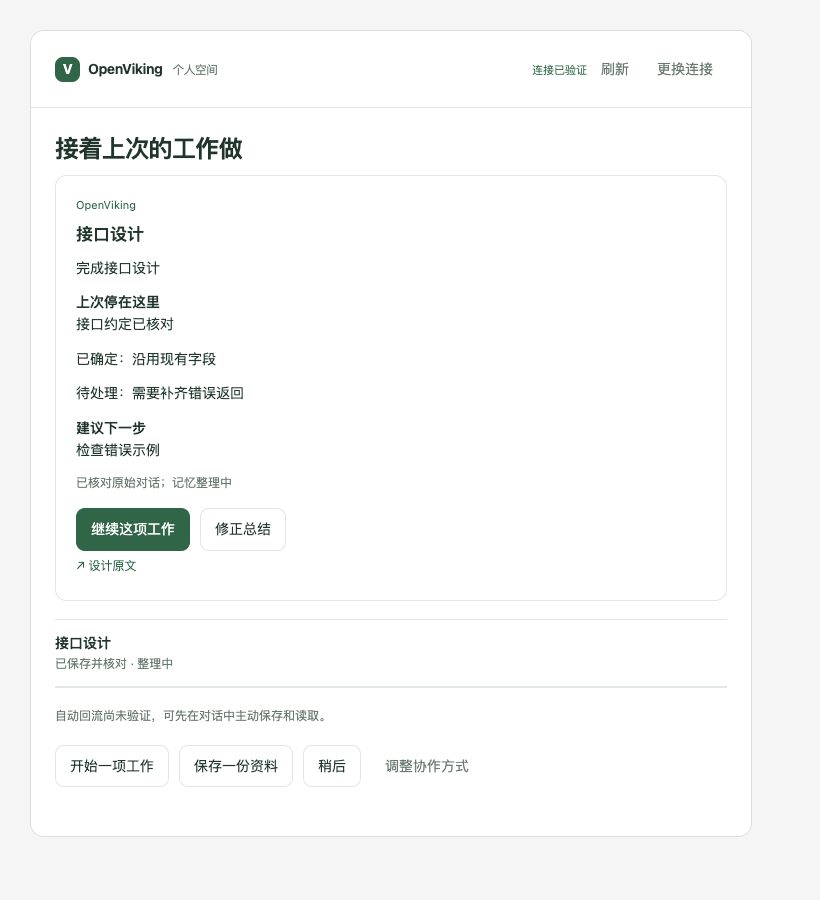
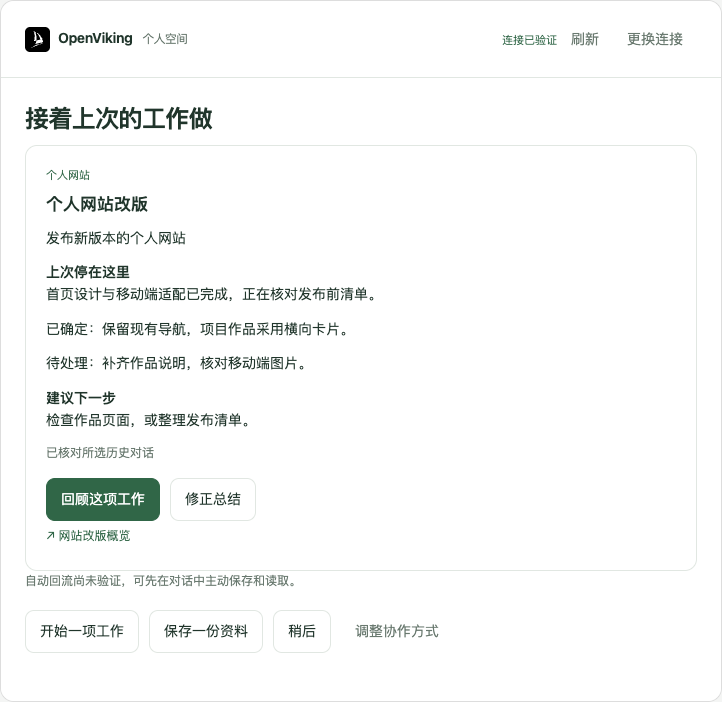
docs: illustrate current onboarding and workspace in README

diff --git a/README.md b/README.md
@@ -1,22 +1,20 @@
-# OpenViking Developer Codex App
+# OpenViking Codex App
 
-在 Codex 对话中接入火山 OpenViking，带入已有工作，再接着做。
+让 Codex 记住已有背景，带上过去的工作，并在需要时回顾进展、查找资料、整理报告。
 
-插件名：`openviking-codex-app`。个人版交互插件；自动记忆复用官方 `openviking-memory`。服务端仅连接火山商业化实例。本版不识别 key 对应的版本、不提供企业分流。
+连接你的**火山 OpenViking 个人空间**，在对话中完成接入，日常在 Codex 右侧打开工作台。
 
-## 体验路径
+- **带入已有工作**：按时间、项目或描述选择历史，确认清单后导入。
+- **接着上次的进度**：查看云端会话的最新工作概览，回顾决定、待办和下一步。
+- **随时查看与整理**：浏览目录和资料，让 Codex 按需生成日报、周报或知识洞察。
 
-1. 用户粘贴控制台生成的 [接入指令](docs/console-connect.md)。指令含 Key 时，Codex 验证后继续；没有提供 Key 时，先显示连接卡片，选择“使用当前连接 / 更换 API Key”或填写新 Key；宿主需要信任 Hook 或新任务加载时按实际提示完成。
-2. 连接验证后，核对长期协作方式：已有同等授权也展示“沿用这个方式 / 调整”，等待选择；新规则展示行为与作用范围，用户采用后保存并读回。保留原有 AGENTS.md 内容，变动时重新核对。
-3. 范围卡片支持近期全部工作、项目、描述范围、从现在开始。不导入也会展示协作方式、实际能力和开始工作/保存资料/稍后入口。
-4. 导入分支先确认清单，再写入并读回、短暂查询抽取状态。可用 Working Memory 或已核对原文形成接续摘要，无需等待所有抽取结束。
-5. 摘要展示目标、上次进展、决定、待办、下一步和来源；与同步清单分开展示，旧同步卡片不会随轮询变成第二张摘要。点击“回顾这项工作”只读取来源、总结进度并建议推进方向，等待用户指令后才执行；不自动处理待办或额外生成文件。新任务接续需要用户明确选择并回收验证结果。日常工作台直接在右侧打开，用于查看目录、工作进展和报告。
+> 本页截图使用示例数据，由当前插件界面渲染。接入卡片截图来自模拟 MCP Apps 宿主，不代表 Codex 原生宿主验收；实际展示方式随宿主版本变化。
 
-接入不自动打开浏览器。卡片使用标准 MCP Apps 的 `ui://` 资源、`callServerTool` 和 `sendMessage`。卡片是否展示、消息能否发回、展开方式由宿主支持决定。CLI 或不支持卡片的宿主使用原生选项/文本接续同一流程。
+## 开始使用
 
-## 分享与分发
+准备好火山 OpenViking 个人版的 API Key，以及 Python 3.10+、Node.js 22+、Git、Codex CLI。当前已完成 macOS 安装验证，其他系统尚未完成真实安装验收。
 
-仓库已公开，无需 GitHub 授权即可下载。复制 [安装指令](docs/install.md) 给 Codex，或在终端执行：
+**最方便的方式：**把 [安装指令](docs/install.md) 复制给 Codex，让它完成安装。也可以自己在终端执行：
 
 ```bash
 git clone https://github.com/zhangxiaoyan1081/openviking-developer-codex-app.git
@@ -24,109 +22,155 @@ cd openviking-developer-codex-app
 python3 install.py --companion-only
 ```
 
-安装后新开任务，发送“使用 openviking-codex-app 接入 OpenViking”，按引导配置自己的 Key、确认协作方式。
+安装后**新开一个 Codex 任务**，发送：
 
-团队使用见 [团队试用说明](docs/team-quickstart.md)；工作区发布、公共目录和左侧入口见 [分发说明](docs/distribution.md)。[远程 HTTPS MCP 改造方案](docs/remote-mcp.md) 描述后续服务化路径，远程服务尚未部署。
+```text
+使用 openviking-codex-app 接入 OpenViking。
+```
 
-## 试用
+这个命令安装交互插件；后续接入流程会检查并按需安装官方 `openviking-memory`，分别验证连接与记忆能力。分发包包含打包后的界面，使用者无需执行 `npm install`。
 
-已安装上一版，在此仓库目录执行（更新交互插件无需先配置 Key）：
+如果你已从火山控制台复制了含 API Key 的接入指令，直接交给 Codex 即可，无需再次填写 Key。控制台集成见 [接入指令模板](docs/console-connect.md)。
+
+## 第一次接入会经历什么
+
+### 1. 连接你的 OpenViking
+
+没有提供 API Key 时，先输入 Key；设备上已有连接时，选择使用当前连接或更换 Key。Codex 验证连接后继续，必要时引导你批准官方记忆插件的 Hook 或重新打开任务。
+
+![已有连接时，选择使用当前连接或更换 API Key](docs/screenshots/connection-card.png)
+
+### 2. 确认今后如何协作
+
+确认 Codex 何时参考记忆、保存哪些重要进展与交付物，以及如何说明信息的使用。你可以采用建议，也可以调整。
+
+已有协作规则时，也会让你确认沿用或调整。新增规则在你确认后写入相应的 `AGENTS.md`，保留原有内容；沿用已有规则无需重写。
+
+![确认长期协作方式及规则生效范围](docs/screenshots/collaboration-card.png)
+
+### 3. 选择是否带入过去的工作
+
+可以选择**最近 7 天、1 个月、3 个月**的工作，选择一个或多个项目，或者用自己的话描述范围，例如：
+
+> 带入最近一个月与个人网站改版有关的讨论和交付物。
+
+Codex 先整理可读取的历史清单，说明覆盖范围与缺口，等你确认后再同步。也可以选择**从现在开始**，无需导入历史。
+
+![按时间、项目或自然语言选择历史范围，也可以从现在开始](docs/screenshots/onboarding-card.png)
+
+### 4. 查看同步进度，回顾已有工作
+
+确认导入后，可以查看写入、读回核对与记忆整理的状态。云端抽取可能需要时间；已有可读取的概览或核对过的原始对话时，Codex 可以先帮你恢复工作背景。
+
+![同步进度：已保存的历史与云端记忆整理状态](docs/screenshots/import-progress-card.png)
+
+随后查看工作摘要：做到哪里、有哪些决定、还缺什么、接下来可以怎么推进。点击**回顾这项工作**只总结进展并建议方向，等待你的下一条指令再执行任务。
+
+![回顾工作：当前进展、已确定事项、待处理问题与建议下一步](docs/screenshots/continuation-card.png)
+
+选择不导入历史，也会说明当前协作状态，以及如何开始新工作或保存一份资料。接入中断后，可以在新任务中说：
+
+```text
+使用 openviking-codex-app 继续接入 OpenViking，从已保存的步骤继续。
+```
+
+支持 MCP Apps 的 Codex 桌面宿主可使用交互卡片；CLI 或不支持卡片的宿主通过选项和文字完成相同步骤。
+
+## 日常工作台
+
+在 Codex 中发送：
+
+```text
+打开我的 OpenViking 工作台。
+```
+
+工作台直接在 **Codex 右侧面板**打开，按「目录 → 工作进展 → 报告与洞察」排列。
+
+### 目录：浏览你的云端资料
+
+从 `viking://` 根目录浏览当前 Key 有权访问的目录，保留 `user/default/...` 等实际层级，优先展示 `user`，随后是 `resources`。
+
+- 展开目录树，选择文件即可预览。
+- 选择文件夹，查看 **L0 摘要**与 **L1 概览**。
+- 在预览、源码和路径之间切换，支持 Markdown、JSON、文本及接口返回的图片等内容。
+
+目录交互参考 OpenViking Web Studio，不包含 VikingBot 操作。
+
+![目录工作台：完整目录树，以及 L0 摘要、L1 概览和预览、源码、路径切换](docs/screenshots/workspace-sidebar.png)
+
+### 工作进展：看看每项工作做到哪里
+
+基于 OpenViking 当前用户 `sessions/` 下的所有 Session，读取各会话**最新 archive 的 L1 概览**，展示云端已有的工作进展，不局限于这次接入导入的历史。
+
+每张横向卡片包含 **Session Title、Current State、上次抽取记忆时间**；时间取自最新归档 L1 文件的更新时间。会话多时可搜索和分页，点击「展开概览」查看全文。尚无归档或读取失败的会话会保留状态提示。
+
+![工作进展列表：搜索会话、展开完整概览、复制接续指令](docs/screenshots/workspace-progress.png)
+
+想继续某项工作，点击**复制接续指令**并粘贴到 Codex。Codex 会读取对应概览，先总结进展、建议推进方向，等你决定下一步。
+
+### 报告与洞察：按需要整理工作成果
+
+在对话中告诉 Codex 你想看什么，例如：
+
+```text
+根据最近 7 天的工作生成周报，列出已完成、进行中、下一步和来源。
+```
+
+```text
+回顾最近一个月的产品调研，整理反复出现的问题和可复用的经验，注明来源。
+```
+
+Codex 读取实际资料，说明时间范围与缺口，生成日报、周报、工作汇总或知识洞察。报告正文保存到个人 OpenViking 资源目录并读回核对后，可在工作台查看报告内容和来源。
+
+![报告详情：时间范围、覆盖的工作、总结正文与来源入口](docs/screenshots/workspace-reports.png)
+
+报告按需生成；不会默认开启定时任务。侧边工作台用于浏览，生成新报告仍在对话中发出请求。
+
+## 更新与分享
+
+已安装的用户，在仓库目录执行：
 
 ```bash
+git pull --ff-only
 python3 install.py --companion-only
 ```
 
-它只更新本仓库插件，不重新安装官方记忆插件。已有旧名称安装时，先安装 `openviking-codex-app`，成功后卸载 `ov-personal`；凭据和本地同步、报告数据继续复用。安装后**新开一个 Codex 任务**并发送：
+随后新开 Codex 任务加载新版。更新交互插件不会重新安装官方记忆插件；已有任务可能继续运行原版本。
 
-> 使用 openviking-codex-app 继续接入 OpenViking，从已保存的步骤继续。
+仓库已公开，可以直接把**本 README 或 [安装指令](docs/install.md)** 分享给同事。每个人配置自己的火山 API Key。更多说明见 [团队试用](docs/team-quickstart.md) 和 [分发说明](docs/distribution.md)。
 
-日常使用可以说：
+## 当前支持范围
 
-> 打开我的 OpenViking 工作台。
-
-> 根据最近 7 天的工作生成周报，列出来源。
-
-> 在侧边栏打开 OpenViking 工作台。
-
-“打开我的 OpenViking 工作台”直接打开右侧面板，不新增工作台卡片。侧边栏按“目录 → 工作进展 → 报告与洞察”排列；工作进展读取当前用户全部 Session 的最新 archive L1，以横向卡片展示标题、当前状态和 L1 更新时间，可搜索、分页和展开全文；生成报告与接续工作通过对话中的卡片或直接提问完成。它不会在用户没有发出请求时后台启动另一个 Agent。
-
-首次接入使用 [控制台指令](docs/console-connect.md)。公开仓库可通过上面的 `git clone` 获取，无需安装 GitHub CLI。需要 Python 3.10+、Node.js 22+、Git、Codex CLI。分发包已包含打包 JS，用户无需 npm install。
-
-仅打开日常工作台：
-
-```bash
-python3 plugins/openviking-codex-app/scripts/panel.py start
-```
-
-## 连接行为
-
-- 指令带有 Key：验证鉴权和个人目录可读后继续，不重复填写。
-- 只有本机旧配置：先点击“使用当前连接”或“更换 API Key”。已有配置本身不算本次连接确认。
-- 没有 Key：卡片输入并连接。验证失败保留旧配置；成功后以 0600 权限原子保存。
-- Key 更换会更新此设备的官方 OpenViking 连接，卡片要求新开 Codex 任务后再导入，避免当前官方代理仍用旧凭据。新任务应核对官方连接；宿主没有重载时重启 Codex。
-- 连接凭据变化会隔离旧的选择、清单、工作台和报告；并发修改时旧卡片不能覆盖更新后的配置。
-
-## 结构与边界
-
-- `src/server.mjs`：标准 MCP Apps 工具和 HTML 资源，stdio 运行；凭据留在 Python 云端客户端中。
-- `src/progress.mjs`、`session_progress.py`：云端会话最新归档索引、横向进展卡片、搜索分页与完整 L1 预览。详见 [工作进展说明](docs/session-progress.md)。
-- `src/explorer.mjs`：从 `viking://` 根目录浏览，双栏完整目录树、`user/default` 层级、路径导航、隐藏文件、自动 L0/L1、预览/源码/路径切换、JSON 与原生图片预览；大文本每次 200 行追加读取。
-- `src/app.mjs`、`src/ui.mjs`：对话卡片、目录与报告。点击选择保存本地状态，发送消息由当前 Agent 接续，不伪造执行完成。
-- `plugins/openviking-codex-app/scripts/app_backend.py`：同步范围、清单确认、报告发布；状态按连接身份隔离；只有连接明确确认后才能导入。
-- `scripts/history.py`：已授权计划的分批导入、commit、去重和 Working Memory 读取。请求结果未知时不自动重放。
-- `scripts/panel.py`：仅本机的日常工作台；不是 onboarding 入口。
-- `skills/openviking-codex-app/SKILL.md`：安装、确认、导入、跨会话接续和证据驱动报告。
-
-上述 scripts/skills 短路径均相对 `plugins/openviking-codex-app/`。已保存的 Key 不回显到卡片。新输入通过宿主的 App 工具和子进程 stdin 传给配置器，不放在命令参数或工具返回结果中；宿主可能记录工具输入，不能承诺对宿主日志隐身。Key 不进入导入清单或报告。本地状态位于 `~/.openviking/personal/`，按连接隔离；不扫描宿主私有数据库、不采集 Computer History、不自动创建定时任务。
-
-官方依赖由 `upstream.lock.json` 固定 GitHub commit `eb2acdb8b632c83392a10625f39d444f26c3cd09`，版本 0.9.3；校验安装脚本 SHA256 后以同一 commit 安装。固定服务地址为 `https://api.vikingdb.cn-beijing.volces.com/openviking`，不安装开源服务端。首次完整安装会重新注册固定版本的官方 marketplace；`--companion-only` 不做该步骤。连接身份不同必须明确切换，不能静默覆盖。
-
-## 升级与卡片故障
-
-安装器将运行文件复制到 `~/.local/share/ov-personal/runtimes/<内容哈希>/`，并为安装副本写入 Node、Python 和服务入口的绝对路径。源码包保留可移植配置；请通过 install.py 安装。旧快照保留，避免已运行任务的配置指向被删除的缓存目录。MCP 服务启动后，再把自身 Python 后端和界面资源保存为仅当前运行使用的临时代码副本。升级清除旧插件缓存后，已有任务仍可继续运行其原版本。副本不含 Key、历史或报告，用户数据仍在原配置目录。工具结果的 runtimeVersion 标识实际运行版本。
-
-旧任务若已经缓存失效的启动配置，需要重新打开 Codex 加载修复后的配置；安装成功不能当作旧任务已经恢复。修复后的运行副本用于避免以后重复发生。没有卡片时直接用原生选项或文本完成相同流程，不提示卡片缺失或交互方式切换。没有可见原生输入组件时，直接问“使用当前连接，还是更换 API Key？”，不宣称已显示选项。只有脚本和对话也无法继续、需要用户处理时，才说明实际影响和必要恢复动作。
-
-## 可恢复的接入流程
-
-`get_state.onboarding` 提供当前 phase、nextAction、协作规则、导入进度、已核查能力与用户下一步。卡片和 stdin 脚本共用按连接隔离的状态。规则准备只写私有提案；已有规则也必须展示“沿用这个方式 / 调整”，记录本次选择后才进入历史范围。选择沿用不写 AGENTS.md；同一次接入恢复时保留确认，新连接确认后重新展示。用户采用具体 revision 后，由 Agent 执行 `onboarding.py apply_rules` 保存管理块、备份并读回。文件变化会使提案失效。语义等价与项目覆盖由 Agent 读取实际文件后判断，脚本不凭关键词推断授权。
-
-导入保存冻结计划、回执和任务状态；`history.py verify` 核对消息，`status --wait 10` 有界检查抽取，`collect` 对已完成的新导入优先读取回执指定的归档。终态状态不重复查询，网络错误不重发消息。卡片按 2/5/10/30 秒退避，最多自动刷新 16 次，可手动刷新继续；关闭卡片后不承诺自动唤醒 Agent。长耗时抽取不会阻塞基于已核对原文的摘要。
-
-工作摘要通过 `publish_work(onboarding=true)` 绑定当前范围；更改范围后旧摘要不能冒充新导入完成。CLI 和缺少卡片工具的宿主按同一状态执行完整流程，详见 [脚本契约](plugins/openviking-codex-app/skills/openviking-codex-app/references/onboarding-flow.md)。AGENTS.md 负责行为规则，官方 Hook 的采集开关仍单独核查。
+- 面向火山 OpenViking **个人版**，复用官方 `openviking-memory`；不安装本地 OpenViking 服务端，不自动识别或分流企业版。
+- 自动记忆取决于官方插件与 Hook 的实际启用状态；连接成功不等于所有记忆能力已验证。
+- 历史导入以宿主工具可读取或用户提供的内容为准；不扫描宿主私有数据库，不采集 Computer History。附件原件是否同步会单独说明。
+- 工作台服务运行在用户本机，使用已配置的公有云连接；远程 HTTPS MCP 服务尚未部署。改造思路见 [远程 MCP 方案](docs/remote-mcp.md)。
 
 ## 开发与验证
+
+<details>
+<summary>查看源码入口、验证命令与验收边界</summary>
+
+| 模块 | 入口 |
+| --- | --- |
+| MCP Apps 工具与资源 | [src/server.mjs](src/server.mjs) |
+| 对话卡片与工作台界面 | [src/ui.mjs](src/ui.mjs)、[src/panel.mjs](src/panel.mjs) |
+| 云端目录浏览 | [src/explorer.mjs](src/explorer.mjs)、[目录说明](docs/workspace-browser.md) |
+| 云端 Session 工作进展 | [src/progress.mjs](src/progress.mjs)、[工作进展说明](docs/session-progress.md) |
+| 接入、同步与长期协作 | [插件技能](plugins/openviking-codex-app/skills/openviking-codex-app/SKILL.md)、[流程契约](plugins/openviking-codex-app/skills/openviking-codex-app/references/onboarding-flow.md) |
+| 官方依赖固定版本 | [upstream.lock.json](upstream.lock.json) |
 
 ```bash
 npm ci --ignore-scripts
 npx playwright install chrome
 npm test
-# 本机安装后，检查 Codex 实际解析的启动配置（只读）
+# 安装后检查实际启动配置与宿主注册
 npm run check:installed
-# 新启动 Codex 官方 app-server 核对注册和资源，不创建任务
 npm run check:codex-host
 ```
 
-`npm test` 运行 Python、stdio MCP、卡片界面与完整集成回归。集成回归使用真实 MCP 服务、Python 状态和 App SDK，只模拟宿主消息桥；覆盖连接入口、规则采用、范围选择、跳过导入、清单确认、进度轮询和接续按钮，使用隔离虚构资料，不上传云端。截图保存至 `.local/acceptance/screenshots/`。GitHub Actions 自动执行同一套测试。
+`npm test` 覆盖 Python、stdio MCP、卡片消息桥、接入状态、目录预览与工作进展等回归；使用隔离的示例资料。模拟宿主测试和配置检查不等于 Codex 对话中的真实卡片验收，后者还需核对显示、点击回传与流程推进。详见 [验收记录](docs/card-acceptance.md)。
 
-`check:installed` 使用 Codex 解析后的安装配置，在最小 PATH 下启动服务，验证五个展示工具的 UI 资源元数据、连接卡片数据与 HTML 读取。它不代表 Codex 对话中已经显示卡片。原生宿主验收必须另行核对工具调用、真实显示、点击回传与流程推进；HIL、Markdown、工具 JSON 和安装成功不能替代。详细证据与未通过项见 [验收记录](docs/card-acceptance.md)。
+</details>
 
-## 参考
-
-- 同事 `ov-distributable`：复用标准 MCP Apps 交互形式，以及“概览、报告内容、来源、接续”的组织思路；未启用旧内置采集。
-- [OpenViking Web Studio](https://github.com/volcengine/OpenViking/tree/main/web-studio)：参考目录导航与分栏预览，独立实现当前公有云 Key 有权访问的完整目录浏览；不包含 VikingBot。
-- [MCP Apps](https://modelcontextprotocol.io/extensions/apps/overview)：标准卡片桥接。
-- 第三方依赖许可见分发插件内 `THIRD_PARTY_NOTICES.txt`。本仓库已公开；尚未指定本项目的开源许可证，公开可访问不等于授予任意再分发许可。
-
-## 卡片预览
-
-以下为模拟宿主截图，不是 Codex 原生宿主验收截图。
-
-![连接确认](docs/screenshots/connection-card.png)
-![输入 Key](docs/screenshots/api-key-card.png)
-![协作方式](docs/screenshots/collaboration-card.png)
-![范围选择](docs/screenshots/onboarding-card.png)
-![从今天开始](docs/screenshots/start-today-card.png)
-![接续摘要](docs/screenshots/continuation-card.png)
-![报告](docs/screenshots/reports-card.png)
-![侧边工作台目录](docs/screenshots/workspace-sidebar.png)
+交互参考 [OpenViking Web Studio](https://github.com/volcengine/OpenViking/tree/main/web-studio) 与 [MCP Apps](https://modelcontextprotocol.io/extensions/apps/overview)。第三方依赖许可见插件内的 [THIRD_PARTY_NOTICES.txt](plugins/openviking-codex-app/THIRD_PARTY_NOTICES.txt)。本仓库尚未指定项目开源许可证，公开可访问不等于授予任意再分发许可。
